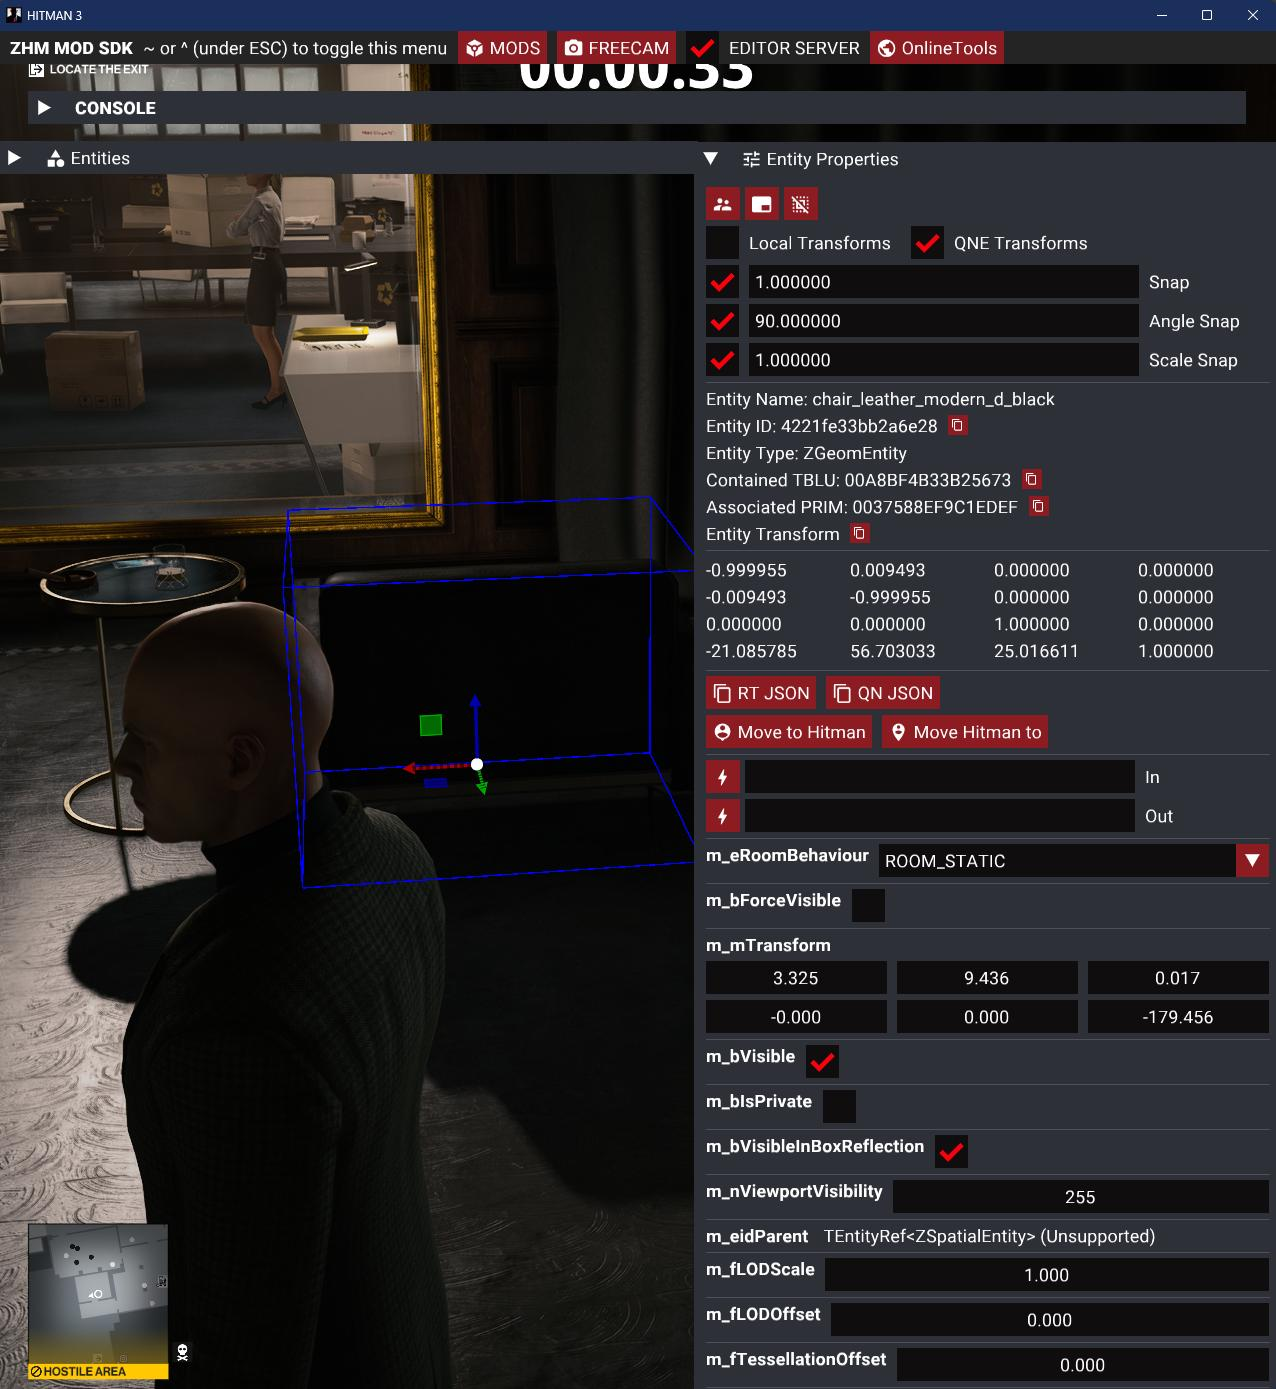
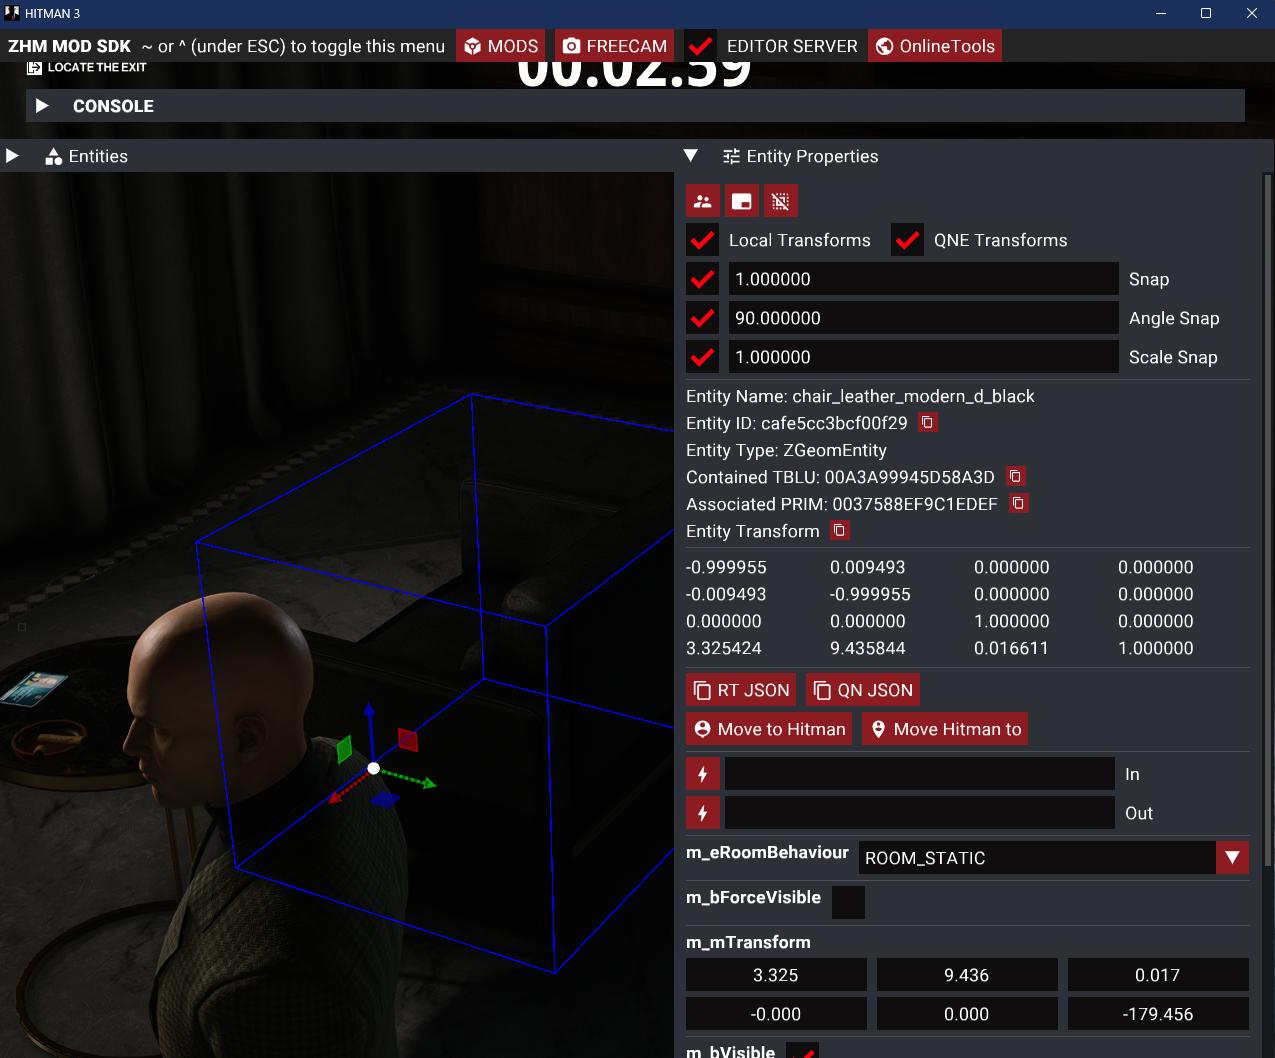
Proofread and edited more pages

diff --git a/docs/modding/customcampaigns/scene_modified.md b/docs/modding/customcampaigns/scene_modified.md
@@ -8,15 +8,27 @@ description: Modifying Existing Mission
 ## Adding the `scenario_raccoon` brick to the bank scenario
 Now that the Factory hash and Blueprint hash are set, lets include the Milton-Fitzpatrick bank scenario in our bank mission, so the game has something to load for our mission. But how do we find the scenario used by the `Golden Handshake` mission? We can use GlacierKit to find it, though it can be a little tricky depending on which mission you are looking for, as the file structure design for missions evolved over time during the development of Hitman: World of Assassination, and wasn't standardized until Hitman 2, and even then, there are still some exceptions.
 
-In general though, in GlacierKit you can go to the `Game Content` tab, switch the dropdown to `Template` and type scenario in the search field, and press enter.
+In general though, in GlacierKit you can go to the `Game Content` tab, switch the dropdown to `Templates` and type `scenario` in the search field, and press enter. Check the box for `Separate tree by partition` to make it easier to find the scenario in the chunk we want.
+
 ![game_content_scenario.jpg](resources/game_content_scenario.jpg)
 
-If you scroll down to the `greedy` section that we found it for the New York chunk, you can see that there is only one scenario, `scenario_raccoon.brick`. Click on it to open it in the file viewer.
+If you scroll down to the `greedy` section that we found is for the New York chunk, you can see that there is only one scenario, `scenario_raccoon.brick`. Click on it to open it in the file viewer.  
+
+> _Note:_ Some earlier destinations, for instance, Paris and Sapienza, use `location.brick` instead of `scenario_[CODENAME].brick`.
+
 ![greedy_scenario_racoon.jpg](resources/greedy_scenario_racoon.jpg)
 
-Since it starts on the `Metadata` tab, you can see the IOI string at the top, as well as other metadata, like the file history, and references. For our purposes at the moment, we just need the IOI string, `[assembly:/_pro/scenes/missions/greedy/mission_raccoon/scenario_raccoon.brick].pc_entitytype`. Select it and copy it.
+Since it starts on the `Metadata` tab, you can see the IOI string at the top, as well as other metadata, like the file history, and references. For our purposes at the moment, we just need the IOI string:  
+`[assembly:/_pro/scenes/missions/greedy/mission_raccoon/scenario_raccoon.brick].pc_entitytype`  
+Select it and copy it.
 
-Switch back to the `scenario_bank.entity.json` file. In the `External scenes` section of the `Metadata` tab click the `Add an entry` button. Paste the `[assembly:/_pro/scenes/missions/greedy/mission_raccoon/scenario_raccoon.brick].pc_entitytype` value and press the `Continue` button.
+Switch back to the `scenario_bank.entity.json` file. In the `External scenes` section of the `Metadata` tab click the `Add an entry` button. Paste the:  
+`[assembly:/_pro/scenes/missions/greedy/mission_raccoon/scenario_raccoon.brick].pc_entitytype`  
+value and press the `Continue` button.
+
+## Setting a property override
+
+We have a new starting location, and we want that to be the default spawn, so we need to set the original starting location to not be the default spawn. For that we can use a property override.
 
 Switch to the `Overrides` tab.
 
@@ -39,6 +51,8 @@ In the `Property overrides` section, set the contents to:
   }
 ]
 ```
+You'll see that in the `Property overrides` content section, the `ref` (reference) id now has text next to it that says `Start_Entrance_Default`. That indicates that the entity with that id in `scenario_raccoon` has that name. 
+
 Switch to the `Tree` tab.  
 
 You will see a node named `Scenario_Empty`. Click on that and rename it to `Scenario_Bank`.
@@ -119,6 +133,13 @@ Relaunch the game and when prompted, select the mods you'd like.
 ## Finding the starting location coordinates
 Start the mission again. You'll notice that a guard spots you pretty quickly, which will make it tough to find our coordinates.
 
+We can pause the game by using ZHMModSDK.
+
+Press the tilde key:
+> `
+
+to bring the ZHMModSDK menu to the foreground.
+
 Click the `FREECAM` button at the top of the screen. On the popup menu, check the box for `Pause game in freecam`. 
 
 ![freecam_settings.jpg](resources/freecam_settings.jpg)
@@ -127,12 +148,11 @@ That will let us buy some time to find the starting location coordinates we want
 
 Close the freecam settings by click the `X` button on the popup menu.
 
+Press the tilde key again to put the ZHMModSDK menu in to background.
+
 Press the `K` key to enable the freecam.
 
-Press the tilde key:
-> `  
-
-to put the ZHMModSDK menu in the background. You can press the `F11` key to toggle showing the ZHMModSDK menu if you'd like. 
+You can press the `F11` key to toggle showing the ZHMModSDK menu if you'd like.
 
 Let's fly to the CEO's Office. 
 ![ceo_office.jpg](resources/ceo_office.jpg)
@@ -152,39 +172,45 @@ On his properties click the `QN JSON` button to copy his transform to the clipbo
 
 ## Updating the starting location transform
 Back in GlacierKit, in the `scenario_bank.entity.json` file, on the `HeroSpawn_Location_Default` node, select the whole `m_mTransform`'s `value` object:
-![starting_location_node_highlighted.jpg](resources/starting_location_node_highlighted.jpg)
-Press the `Paste` button, or `Ctrl+V` if you are using Windows. It will replace that value with the value you copied from the game:
+![starting_location_node_highlighted.jpg](resources/starting_location_node_highlighted.jpg)  
+
+`Paste` the clipboard contents in (`Ctrl+V` if you are using Windows). It will replace that value with the value you copied from the game:  
+
 ![starting_location_node_updated_transform.jpg](resources/starting_location_node_updated_transform.jpg)
 
-Press save.
+Press the save button.
 
-Let's redeploy and relaunch the game and start our mission.
+> _Note:_ Occasionally, GlacierKit and the Editor in ZHMModSDK will get out of sync. If you notice that you press the save button in GlacierKit, and it does not save, or if you see a message about the app being unstable in the message bar at the bottom of GlacierKit, close and relaunch GlacierKit.  
+
+Let's redeploy and relaunch the game and start our mission.  
+
 ![47_started_in_ceo_office.jpg](resources/47_started_in_ceo_office.jpg)
 
-We are now starting in the CEO's Office.
+We now start in the CEO's Office.
 
 ## Removing entities from the original scenario
 
 While we're at it, let's also remove the existing CEO, Athena Savalas.  
 
-First we need to build the entity tree. Click the `Rebuild entity tree`. Once it is done, click on her to select her entity.  
-
-![select_ceo.jpg](resources/select_ceo.jpg)
-
-When you click on an NPC, it selects the `CharacterTemplate::ZLinkedEntity` Node on the `Entities` panel, but what we need to be able to delete an NPC is the id of the `CHAR_*:ZEntity` node.
-
-Select the `CHAR_Greedy_Unique_CEO_F_::ZEntity` node, and then click the copy icon next to the `Entity ID` button on the `Entity Properties` panel.  
-
-Go to the `Metadata` tab, and switch to the `Override deletes` tab. Set the contents to:
+In GlacierKit, go to the `Metadata` tab, and switch to the `Override deletes` tab. Set the contents to:
 
 ```json
 [
   {
-    "ref": "12f1f8b87ed48246",
+    "ref": "",
     "externalScene": "[assembly:/_pro/scenes/missions/greedy/mission_raccoon/scenario_raccoon.brick].pc_entitytype"
   }
 ]
 ```
+Back in Hitman, we next need to build the entity tree. Click the `Rebuild entity tree` button. Once it is done, click on her to select her entity.  
+
+![select_ceo.jpg](resources/select_ceo.jpg)
+
+When you click on an NPC, it selects the `CharacterTemplate::ZLinkedEntity` Node on the `Entities` panel, but what we need to be able to delete an NPC is the id of the `CHAR_*:ZEntity` node, which is this node's parent node.
+
+Select the `CHAR_Greedy_Unique_CEO_F_::ZEntity` node, and then click the copy icon next to the `Entity ID` button on the `Entity Properties` panel.  
+
+Back in GlacierKit, paste the entity id you copied into the `ref` field of the object you added to the `Override deletes`.
 
 Press the save button.
 
@@ -196,14 +222,15 @@ If we redeploy, relaunch, and restart the mission, we can see that Athena Savala
 
 Let's redecorate the CEO's office a little bit.
 
-Click the `Rebuild entity tree` button. Click on the crate in the corner of the room. It will have only selected a part of the crate, so on the entity tree, select the `SetPiece_Container_Body_Chest_Wooden_B_03` entity.  
+Click the `Rebuild entity tree` button. Click on the crate in the corner of the room. It will have only selected a part of the crate, so on the entity tree, select the parent node, which is the `SetPiece_Container_Body_Chest_Wooden_B_03` entity.  
+
 ![crate_selected.jpg](resources/crate_selected.jpg)
 
 Use the Gizmo to move it to the other corner of the room, by dragging the green arrow. To have more screen room to see what you are doing, you can minimize the `Entities` panel and `Entity Properties` panel by clicking the arrow icons on the top left of the panels.
 
 ![crate_moved.jpg](resources/crate_moved.jpg)
 
-In GlacierKit, let's set a new override property for the crate. On the `scenario_bank.entity.json` file, go to the `Metadata` tab, and then go to the `Overrides` tab. On the `Property overrides` tab, add the following JSON snippet in the array after the `Start_Entrance_Default` override, adding a comma between them:
+In GlacierKit, let's set a new override property for the crate and set the transform to the transform from the game. On the `scenario_bank.entity.json` file, go to the `Overrides` tab. On the `Property overrides` tab, add the following JSON snippet in the array after the `Start_Entrance_Default` override, adding a comma between them:
 ```json
 {
   "entities": [
@@ -221,7 +248,7 @@ In GlacierKit, let's set a new override property for the crate. On the `scenario
 }
 ```
 
-In ZHMModSDK Expand the `Entity Properties` panel again, and click on the copy button next to the `Entity ID`. Paste it into the `ref` field of the new entry in the property override. click the `QN JSON` button to copy the transform.
+In ZHMModSDK Expand the `Entity Properties` panel again, and click on the copy button next to the `Entity ID`. Paste it into the `ref` field of the new entry in the property override. Click the `QN JSON` button to copy the transform.
 ![crate_transform.jpg](resources/crate_transform.jpg)
 
 Paste it into the `value` field of the new entry, replacing the `{}` that is there. The transform is not formatted, so right-click within the text area and click `Format Document`.
@@ -289,15 +316,15 @@ In ZHMModSDK, click the `Rebuild Entity Tree` button again.
 
 Since we're copying an entity from the original scenario, let's switch back to the `[assembly:/_pro/scenes/missions/greedy/mission_raccoon/scenario_raccoon.brick].pc_entitytype` file in GlacierKit.
 
-Click the `Open in editor` button. Switch to the `Tree` tab. Here you can see the scenario structure for the Golden Handshake mission. Now that we have ZHMModSDK's Editor mod running and GlacierKit opened to a brick that is loaded in the game, the Game Connection socket is open between GlacierKit and the Editor.
+Click the `Open in editor` button. Switch to the `Tree` tab. Here you can see the scenario structure for the Golden Handshake mission. Now that we have ZHMModSDK's Editor mod running and GlacierKit opened to a brick that is loaded in the game, the Game Connection socket is open between GlacierKit and the Editor. You may want to set Hitman to windowed mode by pressing `Alt + Enter` to more easily see it side-by-side with GlacierKit, or move it to a second monitor if you have one. 
 
 Click on the couch in Hitman and the `chair_leather_modern_d_black` node will be selected in GlacierKit.
 
 ![game_connection.jpg](resources/game_connection.jpg)
 
-Right-click the `chair_leather_modern_d_black` node and click `Clipboard > Copy`. Switch back to the `scenario_bank.entity.json` file in GlacierKit.
+In GlacierKit, right-click the `chair_leather_modern_d_black` node and click `Clipboard > Copy`. Switch back to the `scenario_bank.entity.json` file.
 
-In the tree view, expand the nodes `Scene > Scenario_Bank > Environment`. Right-click on the `Environment` node and click `Create entity` and name it `Props`. Right-click on the `Props` node and click `Clipboard > Paste`.
+On the `Tree` tab, expand the nodes `Scene > Scenario_Bank > Environment`. Right-click on the `Environment` node and click `Create entity` and name it `Props`. Right-click on the `Props` node and click `Clipboard > Paste`.
 
 The `m_eidParent` node has a null `value`, so the entity won't actually be placed properly. Let's fix that.
 
@@ -306,7 +333,7 @@ Replace the `m_eidParent` object with this json object.
 {
     "type": "SEntityTemplateReference",
     "value": {
-        "ref": "b700f19a9874f3c9",
+        "ref": "",
         "externalScene": "[assembly:/_pro/scenes/missions/greedy/mission_raccoon/scenario_raccoon.brick].pc_entitytype"
     }
 }
@@ -314,21 +341,22 @@ Replace the `m_eidParent` object with this json object.
 
 Since the parent is in another brick, we need to set the `externalScene` value as shown above.
 
-We need to set the `ref` value to what the original couch's `m_eidParent` value was. Switch back to the `scenario_raccoon.brick` file and to the chair entity. Copy the `m_eidParent` value. Switch back to the `scenario_bank.entity.json` file and to the chair entity, and paste it into the ref field.
+We need to set the `ref` value to what the original couch's `m_eidParent` value was. Switch back to the `scenario_raccoon.brick` file and to the chair entity. Copy the entity id in the `m_eidParent` value. Switch back to the `scenario_bank.entity.json` file and to the chair entity, and paste it into the ref field.
 
 Right now the new couch has the exact same location as the original, so let's move the new couch as well.
 
 In Hitman, click the couch and drag it somewhere with the gizmo.
 
+On the `Entity Properties` panel, we can see the value for the `m_mTransform` value. We want to copy the transform, but currently the `Local Transforms` checkbox is not checked, so the transform shown is the global transform. Since this entity has a parent node that also has a position, we need to use the local transform, so that it gives the transform relative to that parent node. Check the `Local Transforms` checkbox, and click the `QN JSON` button to copy the local transform for the couch.
+
 ![couch_moved.jpg](resources/couch_moved.jpg)
 
-On the `Entity Properties` panel click the `QN JSON` button to copy its transform.
-
-In GlacierKit, on the `scenario_bank.entity.json` file, on the couch tab, delete the `transform`'s `value` object and paste in the copied transform value.
+In GlacierKit, on the `scenario_bank.entity.json` file's `Tree` tab, on the new couch node, delete the `transform`'s `value` object and paste in the copied transform value.
 
 Press the save button.
 
-When you redeploy, relaunch, and restart the mission, you will see two chairs.
+When you redeploy, relaunch, and restart the mission, you will see two chairs.  
+
 ![two_chairs.jpg](resources/two_chairs.jpg)
 
 ## Next Steps

diff --git a/docs/modding/customcampaigns/creating_mission.md b/docs/modding/customcampaigns/creating_mission.md
@@ -41,14 +41,11 @@ In GlacierKit, right-click the `content/chunk12` folder and click `New File` and
 
 Right click [Scenario brick](resources/empty_scenario_brick.entity.json) and press `Save link as...` and save it into your `content/chunk12` folder with a name of `scenario_bank.entity.json`.
 
-
 ## Setting the factory and blueprint hashes for the scene
 Now we have our scene and scenario files, but the game doesn't know to tie them to the IOI strings that we created. We can fix that by setting the `Factory hash` and `Blueprint hash` for these files.
 
 In GlacierKit, click on the `scene_bank.entity.json` file, switch to the `Metadata` tab, and in the `Factory hash` text field enter:  
-
 `[assembly:/_pro/scenes/missions/hitman_campaign_demo/mission_bank/scene_bank.entity].pc_entitytemplate`  
-
 and press enter. It will automatically be converted to a hashed hexadecimal value that the game uses for this IOI string.
 
 > **_NOTE:_**  **It is important to use `pc_entitytemplate` here and for the rest of the IOI strings in the scene and scenario, instead of `entitytemplate`.  
@@ -65,15 +62,16 @@ To set the scenario for the scene we first need to choose the IOI string for the
 
 For the bank mission's scene as we specified in the `manifest.json`, we are using:  
 `[assembly:/_pro/scenes/missions/hitman_campaign_demo/mission_bank/scene_bank.entity].pc_entitytemplate`  
+
 So our IOI string for the scenario will be:  
 `[assembly:/_pro/scenes/missions/hitman_campaign_demo/mission_bank/scenario_bank.brick].pc_entitytype`
+> _NOTE:_ The scene ends in `.entity].pc_entitytemplate` while the scenario ends in `.brick].pc_entitytype`. This is because the scenario has an entity type of `Brick`, as we will soon see.
 
-We need to add it to the `externalScenes` field of the `content/chunk12/scene_bank.entity.json` file. To do that we can use  GlacierKit.
-* Open the mod folder
-* Navigate to the `content/chunk12/scene_bank.entity.json` file and click on it
-* Go to the Metadata tab on the right panel
-* Click the `Add an entry` button under the `External scenes` section
-* Enter `[assembly:/_pro/scenes/missions/hitman_campaign_demo/mission_bank/scenario_bank.brick].pc_entitytype` and click the `Continue` button
+We need to add it to the `externalScenes` field of the `content/chunk12/scene_bank.entity.json` file.  
+
+In GlacierKit, while still on the `Metadata` tab for `scene_bank.entity.json`, click the `Add an entry` button under the `External scenes` section. Enter:  
+`[assembly:/_pro/scenes/missions/hitman_campaign_demo/mission_bank/scenario_bank.brick].pc_entitytype`
+and click the `Continue` button.
 
 ![resources/externalScenes.jpg](resources/externalScenes.jpg)
 
@@ -84,11 +82,15 @@ The scenario will also need Factory and Blueprint hashes in order for the game t
 
 In GlacierKit, navigate to the `content/chunk12/scenario_bank.entity.json` file and open it.
 
-In the `Factory hash` text field, enter `[assembly:/_pro/scenes/missions/hitman_campaign_demo/mission_bank/scenario_bank.brick].pc_entitytype` and press enter.
+In the `Factory hash` text field, enter:  
+`[assembly:/_pro/scenes/missions/hitman_campaign_demo/mission_bank/scenario_bank.brick].pc_entitytype`  
+and press enter.
 
-In the `Factory blueprint` text field enter `[assembly:/_pro/scenes/missions/hitman_campaign_demo/mission_bank/scenario_bank.brick].pc_entityblueprint` and press enter.
+In the `Factory blueprint` text field enter:  
+`[assembly:/_pro/scenes/missions/hitman_campaign_demo/mission_bank/scenario_bank.brick].pc_entityblueprint`  
+and press enter.
 
-For the scenario, we want the `Entity Type` to be `Brick`. The template file we based the scenario off of already has it set to `Brick` so we can just leave that.
+For the scenario, we want the `Entity Type` to be `Brick`. The template file we used for the scenario already has it set to `Brick` so we can just leave that as is.
 
 Press the save button.
 

diff --git a/docs/modding/customcampaigns/using_navkit.md b/docs/modding/customcampaigns/using_navkit.md
@@ -79,15 +79,15 @@ Go in to free cam mode on ZHMModSDK and select a guard.
 
 Click the `Move to Hitman` button.
 
-Move 47 out of the guard's vision by selecting him and dragging him away using the gizmo.
+Move 47 out of the guard's vision by selecting him and dragging 47 away using the gizmo.
 
 Throw a coin to lure the guard.
 
 ![walk_on_chair.jpg](resources/walk_on_chair.jpg)
 
-That's not very polite!
+He's walking on the couch. That's not very polite!
 
-Let's take a look at the original New York navp and see why this is happening.
+Let's take a look at the original New York NAVP and see why this is happening.
 
 First we need to extract the original NAVP and AIRG.
 

diff --git a/docs/modding/customcampaigns/campaign_menu.md b/docs/modding/customcampaigns/campaign_menu.md
@@ -12,7 +12,7 @@ Open WebStorm and when prompted, open your mod's folder.
 
 In the root folder for your mod, create a new folder named `content`. In that folder create another folder named `chunk0`.
 
-In the `chunk0` folder, create a file named `storyconfig.JSON.patch.json` and set the contents to this:
+In the `chunk0` folder, create a folder named `Story Config`. In that folder create a file named `storyconfig.JSON.patch.json` and set the contents to this:
 
 ```json
 {

diff --git a/docs/modding/customcampaigns/peacock_plugin.md b/docs/modding/customcampaigns/peacock_plugin.md
@@ -1,5 +1,5 @@
 ---
-sidebar_position: 14
+sidebar_position: 15
 description: Creating a Peacock Plugin
 ---
 

diff --git a/docs/modding/customcampaigns/geometry_new.md b/docs/modding/customcampaigns/geometry_new.md
@@ -1,5 +1,5 @@
 ---
-sidebar_position: 13
+sidebar_position: 14
 description: Creating New Geometry
 ---
 
